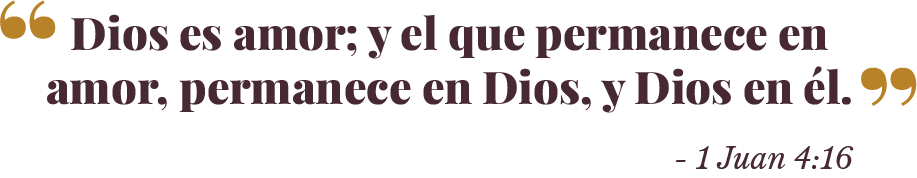
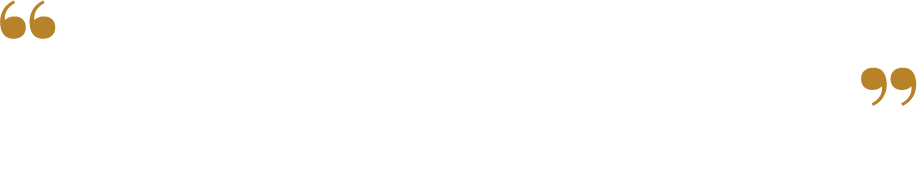
Add files via upload

Changed region(s): [[0.0305, 0.3652, 0.9466, 0.6461], [0.0611, 0.0843, 0.916, 0.3371], [0.7328, 0.8146, 0.9466, 0.9551]]

diff --git a/css/style.css b/css/style.css
@@ -124,13 +124,18 @@ p {
     width: 50%;
 }
 
-.cita {
+.cita1 {
     text-align: center;
-    padding-top: 10%;
-    padding-bottom: 10%;
+    padding-top: 20%;
+    padding-bottom: 20%;
+    background-image: url(../imagenes/manos.jpg);
+    background-attachment: fixed;
+    background-size: cover;
+    background-position: center;
+    background-repeat: no-repeat;
 }
 
-.cita img {
+.cita1 img {
     max-width: 100%;
     height: auto;
     display: block;
@@ -214,25 +219,38 @@ h4 {
 
 .faltan {
     text-align: center;
-    color: #872130;
+    color: #ffffff;
     padding-top: 50px;
     padding-bottom: 50px;
+    background-image: url(../imagenes/pedida.jpg);
+    background-attachment: fixed;
+    background-size: cover;
+    background-position: center;
+    background-repeat: no-repeat;
 }
 
+.faltan h3 {
+    color: #ffffff;
+}
 
 .display-4 {
     font-family: Playfair Display;
     font-size: 9rem;
     font-weight: 900;
-    color: #b88328;
+    color: #ffffff;
 }
 
 .tiempo {
     font-family: PLayfair Display;
     font-size: 2rem;
     letter-spacing: 30%;
-    color: #b88328;
+    color: #ffffff;
     text-align: center;
+}
+
+.card {
+    background-color: rgba(255, 255, 255, .2);
+    margin-top: 40px;
 }
 
 
@@ -291,6 +309,23 @@ h4 {
 
 .fecha {
     font-weight: 900;
+}
+
+.cita2 {
+    text-align: center;
+    padding-top: 20%;
+    padding-bottom: 20%;
+    background-image: url(../imagenes/ivanyale.jpg);
+    background-attachment: fixed;
+    background-size: cover;
+    background-position: center;
+    background-repeat: no-repeat;
+}
+
+.cita2 img {
+    max-width: 100%;
+    height: auto;
+    display: block;
 }
 
 /*formulario*/

diff --git a/index.html b/index.html
@@ -70,7 +70,7 @@
             allow="autoplay; clipboard-write; encrypted-media; fullscreen; picture-in-picture" loading="lazy"></iframe>
     </section>
 
-    <section class="cita">
+    <section class="cita1">
         <div class="row">
             <div class="col">
             </div>
@@ -258,7 +258,7 @@
         </div>
     </section>
 
-    <section class="cita">
+    <section class="cita2">
         <div class="row">
             <div class="col">
             </div>
